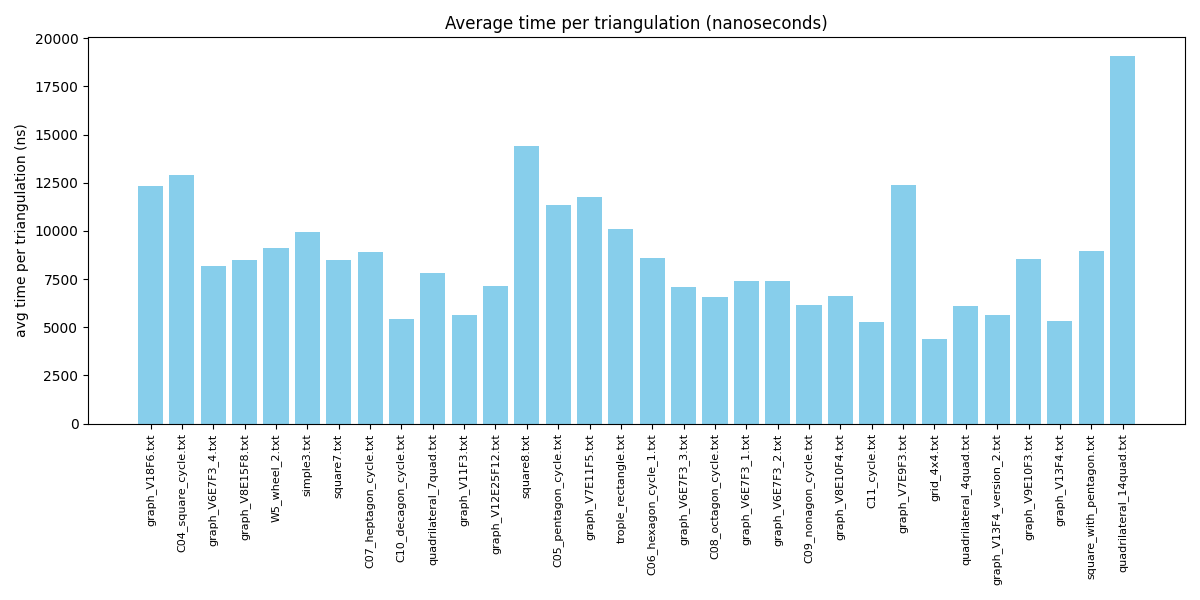
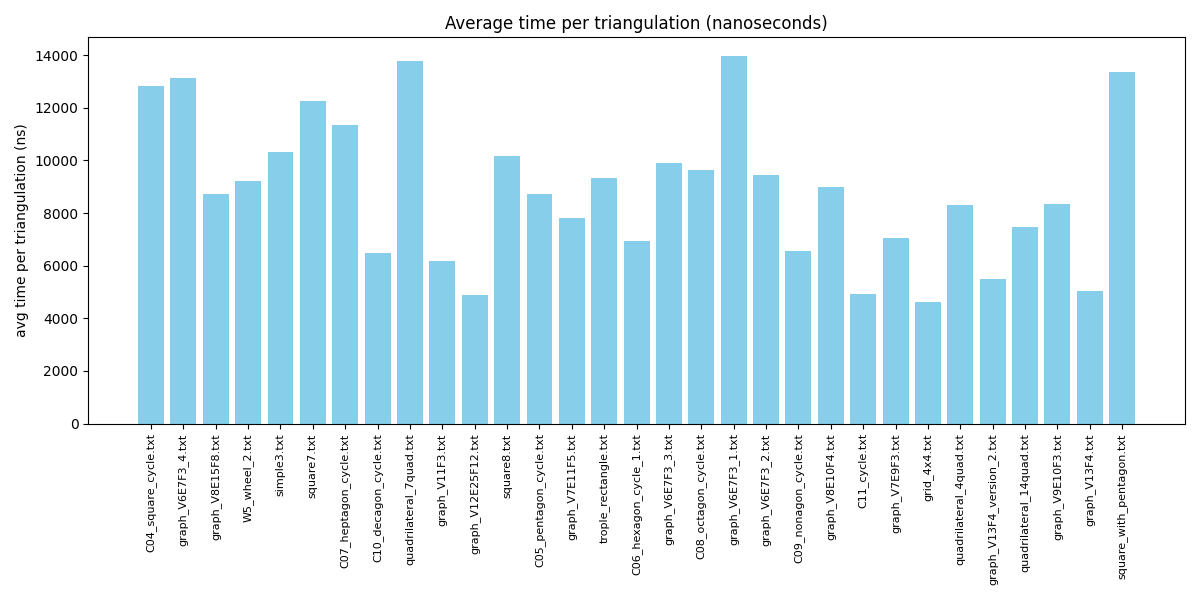
added start and end time in the file

diff --git a/time_complexity/results.html b/time_complexity/results.html
@@ -8,10 +8,10 @@
 <canvas id="memChart" width="800" height="400"></canvas>
 <canvas id="vertChart" width="800" height="400"></canvas>
 <script>
-const labels = ["graph_V18F6.txt","C04_square_cycle.txt","graph_V6E7F3_4.txt","graph_V8E15F8.txt","W5_wheel_2.txt","simple3.txt","square7.txt","C07_heptagon_cycle.txt","C10_decagon_cycle.txt","quadrilateral_7quad.txt","graph_V11F3.txt","graph_V12E25F12.txt","square8.txt","C05_pentagon_cycle.txt","graph_V7E11F5.txt","trople_rectangle.txt","C06_hexagon_cycle_1.txt","graph_V6E7F3_3.txt","C08_octagon_cycle.txt","graph_V6E7F3_1.txt","graph_V6E7F3_2.txt","C09_nonagon_cycle.txt","graph_V8E10F4.txt","C11_cycle.txt","graph_V7E9F3.txt","grid_4x4.txt","quadrilateral_4quad.txt","graph_V13F4_version_2.txt","graph_V9E10F3.txt","graph_V13F4.txt","square_with_pentagon.txt","quadrilateral_14quad.txt"];
-const timeData = {labels: labels, datasets:[{label:'avg time (s)',data:[0.123000,0.000026,0.000163,0.000042,0.000046,0.000040,0.000305,0.004868,2.580525,0.000563,3.806536,0.000443,0.000691,0.000113,0.000082,0.000040,0.000583,0.000142,0.032128,0.000148,0.000177,0.288590,0.000264,26.427236,0.000112,20.305840,0.000097,57.692241,0.118647,51.112828,0.000036,0.312828],borderColor:'blue',fill:false}]};
-const memData = {labels: labels, datasets:[{label:'mem/vertex (bytes)',data:[500.000000,0.000000,0.000000,0.000000,1365.333333,0.000000,0.000000,0.000000,0.000000,0.000000,372.363636,0.000000,819.200000,0.000000,0.000000,0.000000,0.000000,0.000000,0.000000,0.000000,682.666667,0.000000,0.000000,0.000000,1170.285714,256.000000,0.000000,0.000000,455.111111,315.076923,0.000000,512.000000],borderColor:'red',fill:false}]};
-const vertData = {labels: labels, datasets:[{label:'vertices',data:[10,4,6,8,6,5,9,7,10,9,11,12,10,5,7,5,6,6,8,6,6,9,8,11,7,16,9,13,9,13,5,16],borderColor:'green',fill:false}]};
+const labels = ["C04_square_cycle.txt","graph_V6E7F3_4.txt","graph_V8E15F8.txt","W5_wheel_2.txt","simple3.txt","square7.txt","C07_heptagon_cycle.txt","C10_decagon_cycle.txt","quadrilateral_7quad.txt","graph_V11F3.txt","graph_V12E25F12.txt","square8.txt","C05_pentagon_cycle.txt","graph_V7E11F5.txt","trople_rectangle.txt","C06_hexagon_cycle_1.txt","graph_V6E7F3_3.txt","C08_octagon_cycle.txt","graph_V6E7F3_1.txt","graph_V6E7F3_2.txt","C09_nonagon_cycle.txt","graph_V8E10F4.txt","C11_cycle.txt","graph_V7E9F3.txt","grid_4x4.txt","quadrilateral_4quad.txt","graph_V13F4_version_2.txt","quadrilateral_14quad.txt","graph_V9E10F3.txt","graph_V13F4.txt","square_with_pentagon.txt"];
+const timeData = {labels: labels, datasets:[{label:'avg time (s)',data:[0.000026,0.000263,0.000044,0.000046,0.000041,0.000441,0.006187,3.069173,0.000993,4.163538,0.000304,0.000489,0.000087,0.000055,0.000037,0.000471,0.000198,0.046915,0.000280,0.000227,0.307523,0.000360,24.621358,0.000064,21.233668,0.000133,56.005651,0.122384,0.115591,48.308619,0.000053],borderColor:'blue',fill:false}]};
+const memData = {labels: labels, datasets:[{label:'mem/vertex (bytes)',data:[0.000000,0.000000,0.000000,1365.333333,819.200000,0.000000,0.000000,0.000000,910.222222,0.000000,682.666667,409.600000,0.000000,0.000000,0.000000,0.000000,0.000000,512.000000,0.000000,0.000000,0.000000,512.000000,372.363636,0.000000,512.000000,455.111111,0.000000,512.000000,0.000000,315.076923,0.000000],borderColor:'red',fill:false}]};
+const vertData = {labels: labels, datasets:[{label:'vertices',data:[4,6,8,6,5,9,7,10,9,11,12,10,5,7,5,6,6,8,6,6,9,8,11,7,16,9,13,16,9,13,5],borderColor:'green',fill:false}]};
 new Chart(document.getElementById('timeChart').getContext('2d'),{type:'line',data:timeData,options:{responsive:true,plugins:{title:{display:true,text:'Time per file'}}}});
 new Chart(document.getElementById('memChart').getContext('2d'),{type:'line',data:memData,options:{responsive:true,plugins:{title:{display:true,text:'Memory/vertex per file'}}}});
 new Chart(document.getElementById('vertChart').getContext('2d'),{type:'line',data:vertData,options:{responsive:true,plugins:{title:{display:true,text:'Vertices per file'}}}});

diff --git a/time_complexity/main.cpp b/time_complexity/main.cpp
@@ -152,6 +152,22 @@ string formatBytes(size_t bytes)
     return oss.str();
 }
 
+// helper: format current system time as HH:MM:SS
+static string currentTimeString()
+{
+    auto now = std::chrono::system_clock::now();
+    std::time_t t = std::chrono::system_clock::to_time_t(now);
+    std::tm tm;
+#ifdef _WIN32
+    localtime_s(&tm, &t);
+#else
+    localtime_r(&t, &tm);
+#endif
+    char buf[16];
+    std::strftime(buf, sizeof(buf), "%H:%M:%S", &tm);
+    return string(buf);
+}
+
 // ============================================================================
 // Struct to Hold Benchmark Result
 // ============================================================================
@@ -387,6 +403,8 @@ int main()
 
         for (int run = 1; run <= testRuns; run++)
         {
+            string startStr = currentTimeString();
+            out << "    run " << run << " start: " << startStr << "\n" << flush;
             size_t memBefore = getCurrentMemoryUsage();
 
             biconnected *bc = new biconnected(faces);
@@ -395,6 +413,9 @@ int main()
             auto start = clock::now();
             bc->getAllTriangulations();
             auto end = clock::now();
+
+            string endStr = currentTimeString();
+            out << "    run " << run << " end:   " << endStr << "\n" << flush;
 
             size_t memAfter = getCurrentMemoryUsage();
             size_t memUsed = (memAfter > memBefore) ? (memAfter - memBefore) : 0;